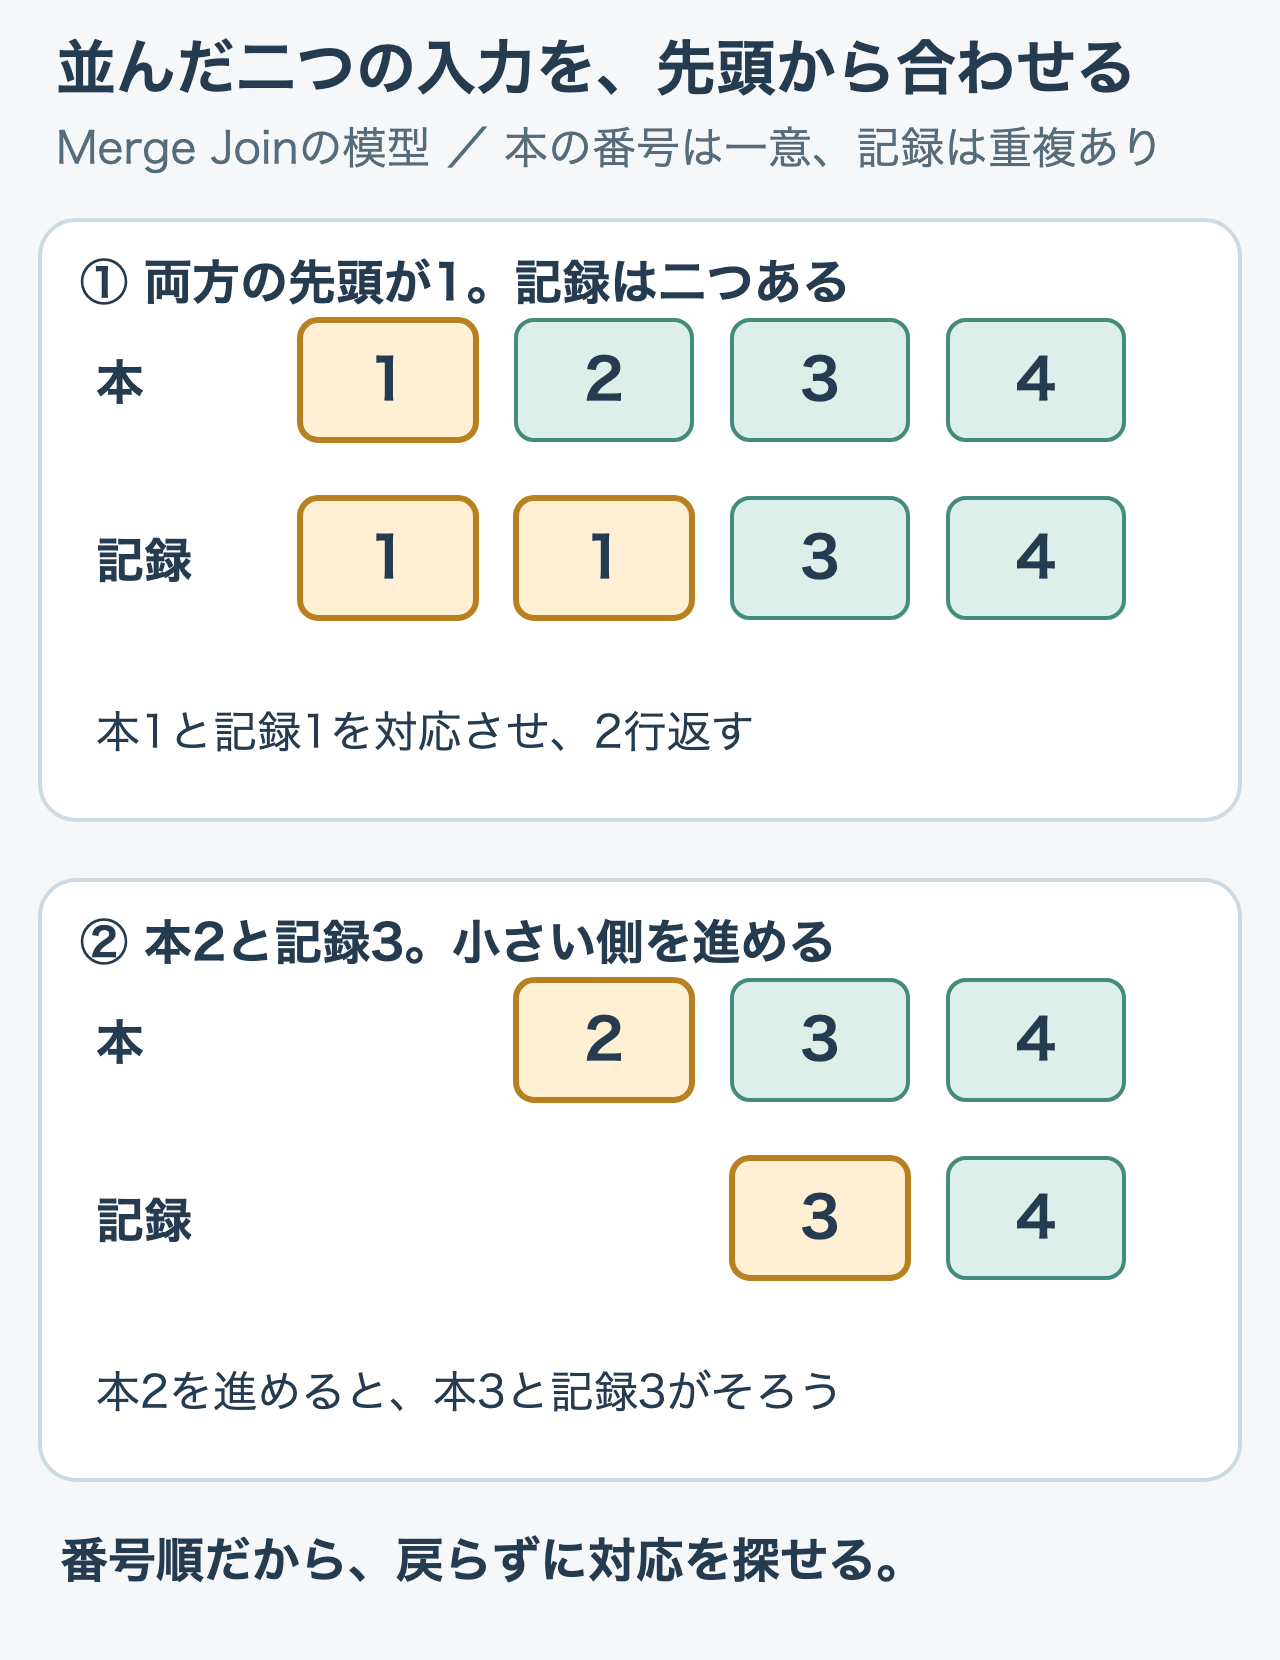
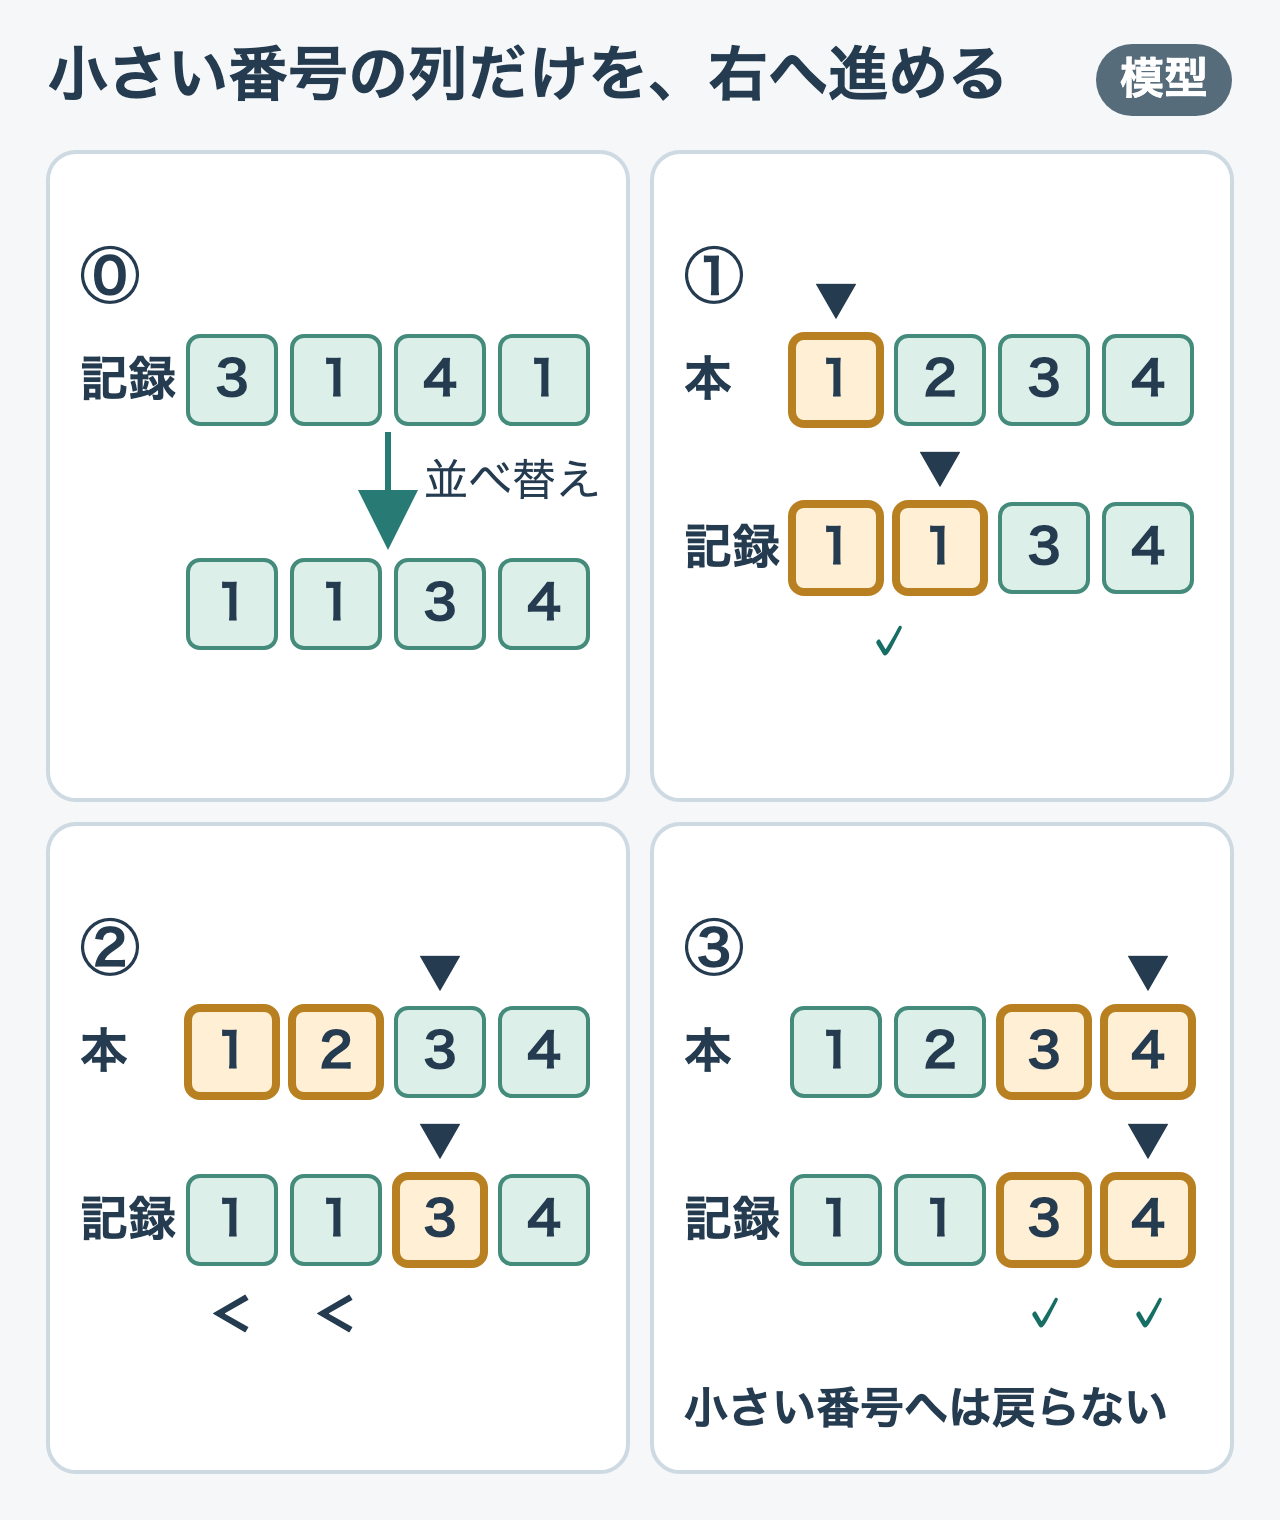
docs(query-journey): Merge Joinの図に⓪準備を足し、位置▼が右にだけ進む4コマにする
これまでの2コマ構成では記録側の並べ替えが省かれており、比較の起点も
本1と記録1からしか描けていなかった。⓪に記録を本の番号順へ並べ替える
準備コマを足し、①一致（✓）②不一致で本だけ進む（＜）③本3・4で追いつく
（✓）の3コマと合わせて4コマにした。見ている位置▼が右にだけ進む様子と、
「戻らずに」を「小さい番号へは戻らない」に言い換えた説明を、模型の中の
記号だけで示せるようにした。

diff --git a/books/postgresql-query-journey/09-join.md b/books/postgresql-query-journey/09-join.md
@@ -154,8 +154,8 @@ Execution Time: 664.568 ms
 
 先頭同士を比較して、小さい側を進めれば対応を探せます。この方法で結合するのが`Merge Join`です。
 
-![並んだ二つの入力を、先頭から合わせる](/images/postgresql-query-journey/09-merge-join.png)
-*Merge Joinの模型。本の番号は一意で、記録には重複があります。*
+![記録を並べ替えたあと、一致では両方の▼が、本だけ小さいときは本の▼だけが右へ進み、3と4で追いつく](/images/postgresql-query-journey/09-merge-join.png)
+*見ている位置▼の動きだけを追ってください（模型）。*
 
 この模型では本の番号は一意です。両側に重複がある一般の結合では、一致する組み合わせをすべて返す必要があります。
 
